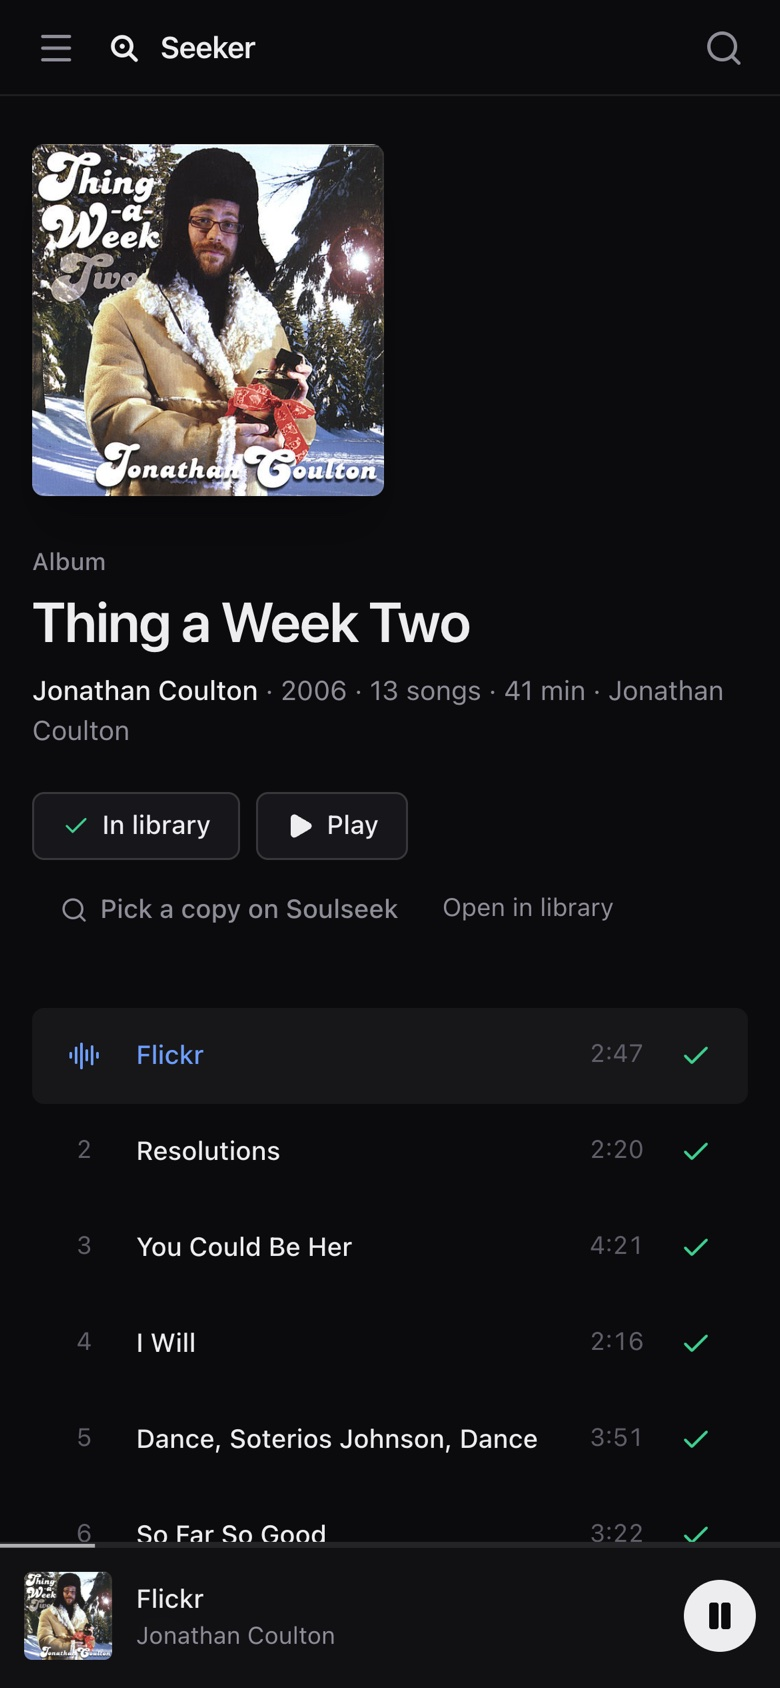
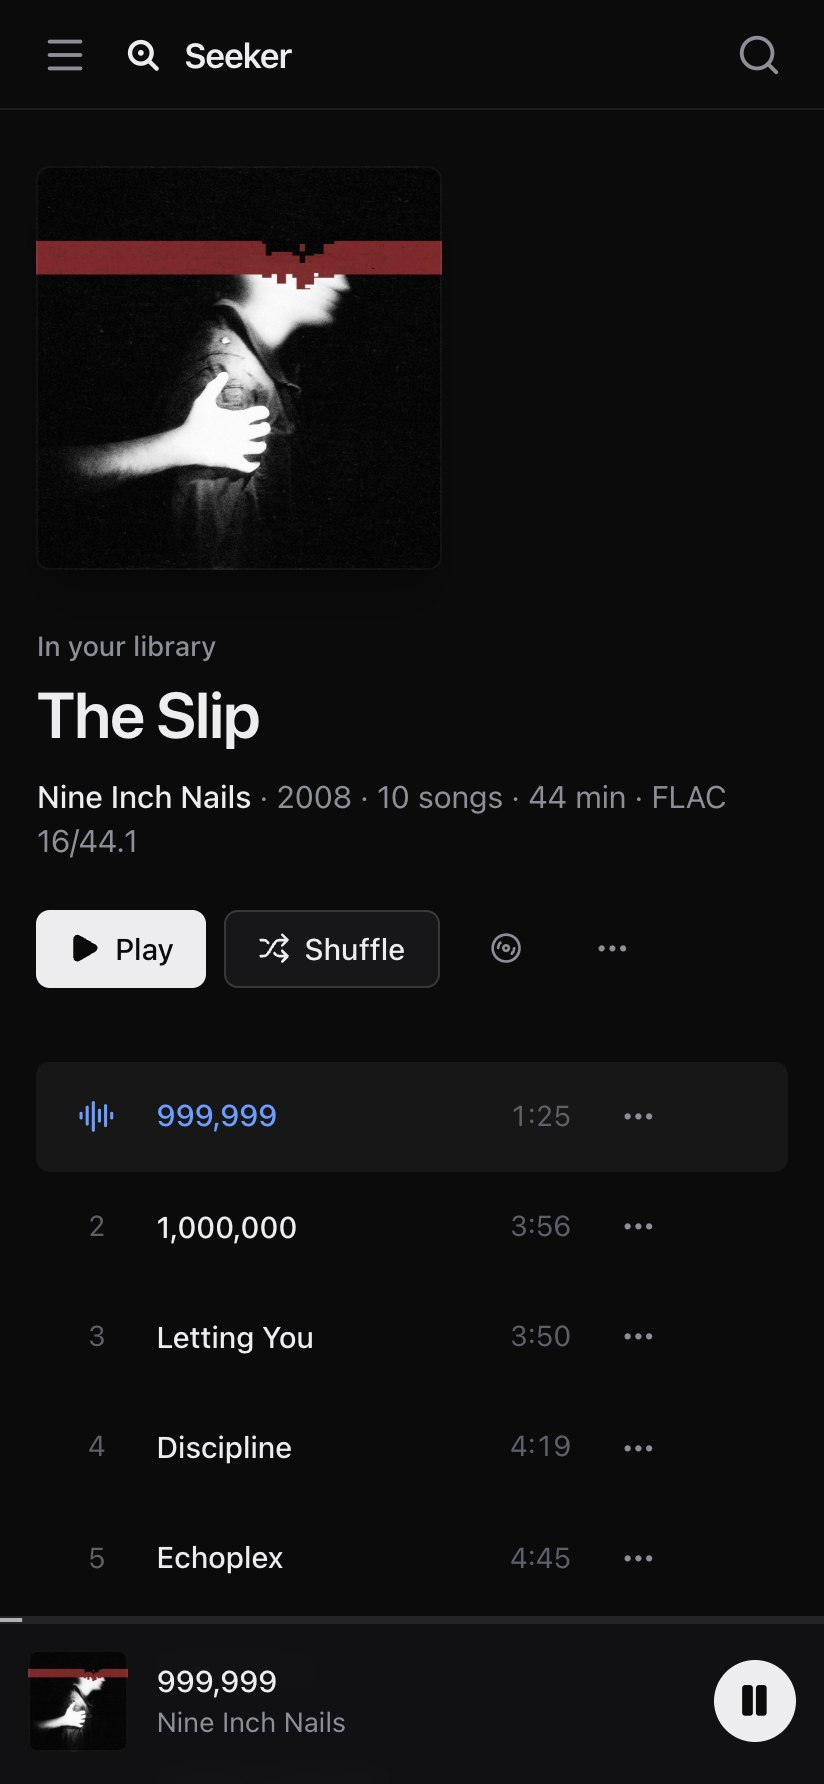
docs(readme): tighten the readme and retake the phone screenshots

diff --git a/README.md b/README.md
@@ -25,13 +25,13 @@ library, ready for Jellyfin or any other player. An AI assistant can do all of t
 - [Back up and restore](#back-up-and-restore)
 - [Troubleshooting](#troubleshooting)
 - [Development](#development)
-  - [Releases](#releases)
 - [Licence](#licence)
 
 ## Features
 
 - **Search and download.** Type `Artist - Album` and press Enter to see the best match, then Enter again to get it.
-  Press ⌘K (Ctrl K) on any page for the same thing, or browse artists, albums and songs.
+  Press ⌘K (Ctrl K) on any page for the same thing, or browse artists, albums and songs. Albums come from Deezer, and
+  from MusicBrainz when Deezer doesn't have them.
 - **Good copies.** Complete album folders from one user, in your preferred format (FLAC, then MP3 320 by default),
   from users with free slots first. If a user stalls or a file fails, Seeker switches to another copy, and keeps the
   album in one quality.
@@ -39,11 +39,10 @@ library, ready for Jellyfin or any other player. An AI assistant can do all of t
   thrown away. AcoustID fingerprinting is optional.
 - **Tagged and filed.** Fresh tags with titles, track numbers, cover art and MusicBrainz IDs, saved as
   `Artist/Album (Year)/01 - Title.flac`.
-- **More than one catalog.** Albums are found through Deezer, and through MusicBrainz when Deezer doesn't have them.
-- **Wishlist and watchlist.** Things that can't be found yet are retried automatically, and new releases from artists
-  you follow download by themselves.
-- **Library and player.** Play your music in the browser with shuffle and repeat, and preview songs you don't own.
-  Find a better copy of an album, fix badly tagged albums, or delete them.
+- **Wishlist and watchlist.** What can't be found yet is retried automatically, and new releases from artists you
+  follow download by themselves.
+- **Library and player.** Play your music in the browser with shuffle and repeat, on a computer or a phone, and
+  preview songs you don't own. Find a better copy of an album, fix badly tagged albums, or delete them.
 - **Import.** Add music you already have: Seeker matches each folder to an album, tags it and files it.
 - **Shares back.** When slskd shares your music folder, new music is shared on Soulseek automatically.
 - **MCP server.** Everything in the app can be done and read by an AI assistant.
@@ -65,7 +64,7 @@ Your library, with the player:
 On a phone, in dark mode:
 
 <p>
-  <img src="docs/screenshots/phone-album.jpg" width="260" alt="An album page on a phone, with every track in the library">
+  <img src="docs/screenshots/phone-album.jpg" width="260" alt="An album in the library on a phone, with its first track playing">
   <img src="docs/screenshots/phone-player.jpg" width="260" alt="The full-screen player on a phone">
 </p>
 
@@ -85,10 +84,10 @@ Seeker doesn't connect to Soulseek itself; it works through slskd. Install slskd
 needs:
 
 - **An slskd API key that can make changes.** slskd's primary key, set with `SLSKD_API_KEY`, works as it is. Keys
-  added in `slskd.yml` need `role: readwrite`, because they're read-only by default. See
+  added in `slskd.yml` are read-only unless they have `role: readwrite`; see
   [API keys](https://github.com/slskd/slskd/blob/master/docs/config.md#api-keys) in slskd's docs.
-- **slskd's download folder.** Seeker picks finished downloads up there, so mount the same folder into Seeker.
-- **To reach slskd's web port** (5030 by default) over the network.
+- **slskd's download folder**, mounted into Seeker too, so Seeker can pick finished downloads up.
+- **slskd's web port** (5030 by default), reachable from Seeker.
 - **Optionally, your music folder in slskd's shares**, so new music is shared back on Soulseek. See
   [shares](https://github.com/slskd/slskd/blob/master/docs/config.md#shares) in slskd's docs.
 
@@ -132,18 +131,15 @@ docker run -d --name seeker --restart unless-stopped \
 ```
 
 Either way, set `PUID` and `PGID` to the user and group slskd runs as, so Seeker can move finished downloads out of
-slskd's folder, and make sure that user can write to your music, downloads and import folders. Seeker gives its own
-data folder to that user when it starts. Then open `http://<your-server>:7335` and sign in with `SEEKER_PASSWORD`.
-Every setting is listed under [Configuration](#configuration), for whichever way you run it.
+slskd's folder, and make sure that user can write to your music, downloads and import folders. Then open
+`http://<your-server>:7335` and sign in with `SEEKER_PASSWORD`. Every setting is listed under
+[Configuration](#configuration).
 
-**Rootless Docker.** Users in the container are other users on the host: user 1000 is a "subordinate" id such as
-100999 (see `/etc/subuid`). `PUID=0` and `PGID=0` run Seeker as you, so the files it creates are yours on the host. If
-you run Seeker with `--user` or `user:` instead, it can't change who owns its data folder; when it can't write there,
-it stops and says which `chown` fixes it.
-
-The default `PUID=1000`/`PGID=1000` gives a bind-mounted data folder to subordinate host ids such as `100999:100999`.
-You can usually read the backups but need `sudo` to delete or restore files on the host. Use `PUID=0`/`PGID=0` if you
-want to manage that folder as yourself, and make sure that identity can also access the music and downloads.
+**Rootless Docker.** Users in the container are other users on the host: container user 1000 is a subordinate id such
+as 100999 (see `/etc/subuid`), so Seeker's data folder belongs to that id and managing its files on the host needs
+`sudo`. Set `PUID=0` and `PGID=0` to run Seeker as yourself instead, and check that you can access the music and
+downloads. With `--user` or `user:`, Seeker can't change who owns its data folder; if it can't write there, it stops and
+says which `chown` fixes it.
 
 ## Configuration
 
@@ -170,8 +166,7 @@ Folders, which Seeker must be able to write to:
 | `/import` | Optional: music you already have, to add to your library |
 
 The web app and the MCP server listen on port 7335. The container starts as root only to give `/data` to `PUID:PGID`,
-then runs Seeker as that user. With `--user` or `user:`, it runs as that user from the start and leaves `/data` alone.
-At startup, Seeker checks that it can write to each folder, and **Settings → Library** shows any it can't.
+then runs Seeker as that user. **Settings → Library** shows any folder Seeker can't write to.
 
 Everything else is in **Settings** in the app:
 
@@ -183,14 +178,7 @@ Everything else is in **Settings** in the app:
 | Jellyfin | Server address and API key, so Jellyfin rescans after new music arrives | Off |
 | Watchlist | How often to check followed artists, and which release types count | Every 12 hours; albums and EPs |
 | Wishlist | Keep retrying downloads that can't be found yet | On |
-| Sharing | Ask slskd to rescan its shares once new music has stopped arriving and nothing is downloading | On, after 30 minutes |
-
-The share quiet period is between 1 minute and 24 hours; saved values outside that are brought within it. Use
-**Rescan shares automatically** to disable automatic scans. Initial indexing normally avoids a rescan of music slskd
-already shares. **Rescan after first library scan** opts into it; if slskd shares nothing, Seeker still schedules a
-rescan after initial indexing. If slskd later stops sharing anything while your library has music (after losing its
-share cache, say), Seeker asks for one rescan. A rescan that's still to come when Seeker restarts (for an update, say)
-is planned again when it starts.
+| Sharing | Ask slskd to rescan its shares once new music has stopped arriving (for 1 minute to 24 hours) and nothing is downloading | On, after 30 minutes |
 
 ## How a download works
 
@@ -212,31 +200,14 @@ downloading it, or use **Soulseek files** to pick an exact copy yourself. If an 
 MusicBrainz from the bottom of the results.
 
 **Library.** Open an album in your library to play it. The **⋯** menu can find a better-quality copy, match the album
-to the catalog (fixing its tags, file names and cover), or delete it. Seeker rescans the music folder at startup and
-every 6 hours, and when you press **Rescan**. If the folder is missing, unreadable or empty, or more than half the
-library seems gone (at least 100 tracks), it leaves the library as it is and explains why at the top of the Library page: a network share
-that isn't mounted looks just like that. If you did remove the music, press **Remove missing tracks**.
+to the catalog (fixing its tags, file names and cover), or delete it. Files without tags are named after their folders
+and file names (`Artist/Album (2008)/01 - Title.flac`).
 
-An entirely empty music folder is guarded even for small libraries. Unreadable files and folders keep their indexed
-tracks; a forced rescan never treats those access failures as deletions.
-
-Scans read only new and changed files, several at a time, and only their tags: a 5,000-track library on a network
-share takes seconds to a few minutes the first time. The Library page shows how far a scan has got and the file it's
-on, and albums appear as the scan saves them, every 200 tracks or 15 seconds. **Stop** ends a scan early: Seeker keeps
-what it read, and the next scan (at startup, every 6 hours, or when you press **Rescan**) continues from there, as it
-does after a restart. Folders NAS systems keep next to your music (`@eaDir`, `#recycle`, `#snapshot` and the like) are
-skipped. Cover art embedded in the files isn't read during a scan; Seeker looks for it the first time an album without
-a cover image in its folder is shown. Music that finishes downloading during a scan is added straight away.
-
-On a network share (NFS, SMB, or a FUSE mount such as sshfs or rclone), Seeker reads 4 files at a time instead of 12,
-so a scan doesn't crowd out everything else using the share; `SEEKER_SCAN_CONCURRENCY` sets the number yourself. A
-file that doesn't answer within a minute is skipped until the next scan. If file after file doesn't answer, Seeker
-stops the scan, says so on the Library page, and tries again in 10 minutes.
-
-Files without tags get their artist, album, title and track number from their folders and file name
-(`Artist/Album (2008)/01 - Title.flac`, an `Artist - Album` folder, or `07 - Artist - Title` in a compilation); tags
-win wherever a file has them. A file whose tags Seeker can't make sense of is still added, with what `ffprobe` reads
-from it or, failing that, its folder and file name. Seeker warns about each one (MCP `get_status` lists them).
+Seeker rescans the music folder at startup, every 6 hours and when you press **Rescan**, reading only new and changed
+files. The Library page shows how far a scan has got; **Stop** ends one early, and the next scan carries on from
+there. If the folder is missing, unreadable or empty, or more than half the library seems gone (at least 100 tracks),
+Seeker leaves the library as it is and says why on the Library page: that's what a network share that isn't mounted
+looks like. If you did remove the music, press **Remove missing tracks**.
 
 **Deletes are permanent.** Seeker has no recycle bin or undo for music files. Deleting a track or album removes its
 audio files, and upgrades permanently replace lower-quality copies after better files are filed. Back up your music
@@ -278,16 +249,10 @@ D.C. album", "what's stuck in my wishlist?", "find FLAC copies of the albums I o
 | Settings and status | `get_status`, `get_settings`, `update_settings`, `test_jellyfin`, `test_acoustid`, `reconnect_soulseek`, `rescan_shares` |
 | Access | `list_tokens`, `create_token`, `revoke_token` |
 
-The assistant can read the app's state as well as change it:
-
-- `get_status`: the Soulseek connection, sharing, download counts, library size and how far a library scan has got,
-  the search budget, and the latest warnings and errors.
-- `list_downloads` and `get_download`: each download's percent, speed, time left, queue position, missing tracks and
-  log.
-- `wait_for_download`: follows a download until it finishes.
-
-Tools that delete things are marked, so assistants ask before using them. API keys are never shown, only whether
-they're set.
+The assistant can read the app's state as well as change it: `get_status` gives the Soulseek connection, sharing,
+download counts, the library and how far a scan has got, and the latest warnings and errors; `get_download` gives a
+download's progress, queue positions, missing tracks and log; `wait_for_download` follows one until it finishes. Tools
+that delete things are marked, so assistants ask before using them. API keys are never shown, only whether they're set.
 
 ## Updates
 
@@ -302,7 +267,6 @@ docker compose up -d
 ```
 
 With `docker run`, pull the image, remove the container (`docker rm -f seeker`) and run the same command again.
-
 **Settings → Account** shows the build you're running (`build 1a2b3c4`, the commit's short id), and so does
 `get_status` over MCP.
 
@@ -317,10 +281,8 @@ cp /path/to/seeker-data/backups/seeker-2026-11-12.db /path/to/seeker-data/seeker
 rm -f /path/to/seeker-data/seeker.db-wal /path/to/seeker-data/seeker.db-shm
 ```
 
-With rootless Docker and `PUID=1000`, the data folder belongs to a subordinate host id, so prefix both commands with
-`sudo`. The entrypoint restores `PUID:PGID` ownership when Seeker starts again. With `PUID=0`/`PGID=0`, the folder
-belongs to the user running rootless Docker and no `sudo` is needed. Changing to those ids also changes which music
-and download files Seeker can access; check their permissions before switching.
+With rootless Docker and the default `PUID=1000`, the data folder belongs to a subordinate id on the host, so run both
+commands with `sudo`. Seeker gives the files back to `PUID:PGID` when it starts.
 
 ## Troubleshooting
 
@@ -332,38 +294,30 @@ and download files Seeker can access; check their permissions before switching.
 - **Downloads never start, or users refuse them**: share some music in slskd, and forward its listening port (50300
   by default) on your router. See
   [listen port](https://github.com/slskd/slskd/blob/master/docs/config.md#listen-ip-address-and-port) in slskd's docs.
-- **Seeker stops at startup with "Seeker can't use its data folder"**: the user it runs as can't write to `/data`.
-  The message gives that user's ids, as the host sees them, and the fix. Usually you remove `--user` or `user:` and
-  set `PUID` and `PGID`, so Seeker can fix the folder itself. On rootless Docker, the ids on the host are subordinate
-  ids, so a folder you own isn't writable for container user 1000 (see [Rootless Docker](#run-seeker)).
+- **Seeker stops at startup with "Seeker can't use its data folder"**: the user it runs as can't write to `/data`. The
+  message says who that is and how to fix it; usually you remove `--user` or `user:` and set `PUID` and `PGID`
+  instead (see [Rootless Docker](#run-seeker)).
 - **Permission errors in a download's log**: Seeker must be able to move files out of slskd's download folder and into
-  your library. Run it as the same user as slskd, and make sure that user can write to your music folder. Folders that
-  Docker created for you belong to root. If Seeker isn't allowed to change a downloaded file but can change its folder,
-  it tags a copy instead; if it can't change either, it files nothing and says so.
+  your library. Run it as the same user as slskd, and make sure that user can write to your music folder. Folders
+  that Docker created for you belong to root.
 - **slskd stops responding for minutes after downloads**: rescanning a big library's shares, especially on a network
   share, keeps slskd busy. Make Seeker wait longer before it asks, or turn off **Rescan shares automatically** in
-  **Settings → Soulseek** and let slskd rescan on a schedule with `SLSKD_SHARE_CACHE_RETENTION` (in minutes; see
-  [share cache](https://github.com/slskd/slskd/blob/master/docs/config.md#cache) in slskd's docs). New music is then shared
-  after slskd's next rescan, or when you press **Rescan**. Downloads that start while slskd is busy wait for it.
-- **A download says "Waiting for the music folder" or "Waiting for free space"**: the music folder is missing, empty,
-  read-only or temporarily unavailable, or a disk Seeker writes to is full or over its quota (the music folder, the
-  downloads folder, or Seeker's data folder, where it makes temporary copies). Seeker keeps the downloaded files and
-  any tracks already filed, then retries every 10 minutes. Fix the mount or permissions, or free some space, and press
-  **Try again** in Downloads to resume immediately, without downloading again. Cancelling the job explicitly removes
-  its downloaded files. "Waiting to try again" works the same way when filing failed for another reason; the
-  download's details say why.
-- **A download says "Waiting for slskd to finish moving the file"**: slskd reports a download as finished before it has
-  moved the file out of its incomplete folder. When that folder is on another disk or network share, the move is a
-  copy, which can take minutes. Seeker looks again every 30 seconds for up to an hour (`SEEKER_LOCATE_MS` and
-  `SEEKER_MOVE_WAIT_MS`, in milliseconds), then gets the track from someone else. Moves are instant when slskd's
-  incomplete folder is on the same disk as its downloads folder: see `SLSKD_INCOMPLETE_DIR` in
+  **Settings → Soulseek** and let slskd rescan on its own schedule with `SLSKD_SHARE_CACHE_RETENTION` (in minutes; see
+  [share cache](https://github.com/slskd/slskd/blob/master/docs/config.md#cache) in slskd's docs).
+- **A download says "Waiting for the music folder" or "Waiting for free space"**: the music folder is unavailable, or
+  a disk Seeker writes to is full. Seeker keeps the downloaded files and tries again every 10 minutes; fix the mount or
+  free some space, then press **Try again** in Downloads to carry on straight away. "Waiting to try again" means filing
+  failed for another reason, which the download's details give. Cancelling a download removes its files.
+- **A download says "Waiting for slskd to finish moving the file"**: slskd calls a download finished before it has
+  moved the file out of its incomplete folder, and that takes a while when the folder is on another disk or share.
+  Seeker looks again every 30 seconds for up to an hour (`SEEKER_LOCATE_MS`, `SEEKER_MOVE_WAIT_MS`), then gets the
+  track elsewhere. Keeping slskd's incomplete folder on the same disk as its downloads makes the move instant; see
   [incomplete and downloads](https://github.com/slskd/slskd/blob/master/docs/config.md#incomplete-and-downloads) in
   slskd's docs.
-- **The library stopped updating**: Seeker can't see your music, usually because a network share isn't mounted, so
-  it keeps the index. It looks again every 10 minutes, or press **Rescan** on the Library page.
-- **A library scan makes the server or the share slow**: set `SEEKER_SCAN_CONCURRENCY` to read fewer files at once
-  (`2`, say), or more for a fast NAS. Press **Stop** on the Library page to stop a scan for now; the next one continues
-  where it left off.
+- **The library stopped updating**: Seeker can't see your music, usually because a network share isn't mounted, so it
+  keeps the library as it is. It looks again every 10 minutes, or press **Rescan** on the Library page.
+- **A library scan slows the server or the share down**: set `SEEKER_SCAN_CONCURRENCY` to read fewer files at once
+  (`2`, say). **Stop** on the Library page ends a scan for now; the next one carries on where it left off.
 - **AcoustID says the key is invalid**: use an application key, not your user key.
 - **Something else**: **Settings** shows the Soulseek connection and sharing, and every download's details include a
   step-by-step log. Over MCP, `get_status` lists recent warnings and errors.
@@ -395,15 +349,11 @@ seeker/Dockerfile      The image
 
 [AGENTS.md](AGENTS.md) explains the code in more detail for coding agents.
 
-### Releases
-
-`.github/workflows/docker.yml` checks the types and runs the tests on every push to `main` and every pull request.
-Only if they pass does it build the image, for x86 and ARM. Pushes to `main` publish it as `latest` and
-`sha-<commit>`, and a version tag such as `v0.2.0` publishes `0.2.0` and `0.2`. Pull requests are built but never
-published, and changes that only touch documentation (Markdown files and `docs/`) or the example compose file skip the
-workflow. A fork publishes to `ghcr.io/<its-owner>/seeker`.
-
----
+**Releases.** `.github/workflows/docker.yml` checks the types and runs the tests on every push and pull request, then
+builds the image for x86 and ARM. Pushes to `main` publish it as `latest` and `sha-<commit>`, and a version tag such as
+`v0.2.0` publishes `0.2.0` and `0.2`. Pull requests are built but never published, and changes that only touch
+documentation (Markdown files and `docs/`) or the example compose file skip the workflow. A fork publishes to
+`ghcr.io/<its-owner>/seeker`.
 
 ## Licence
 
